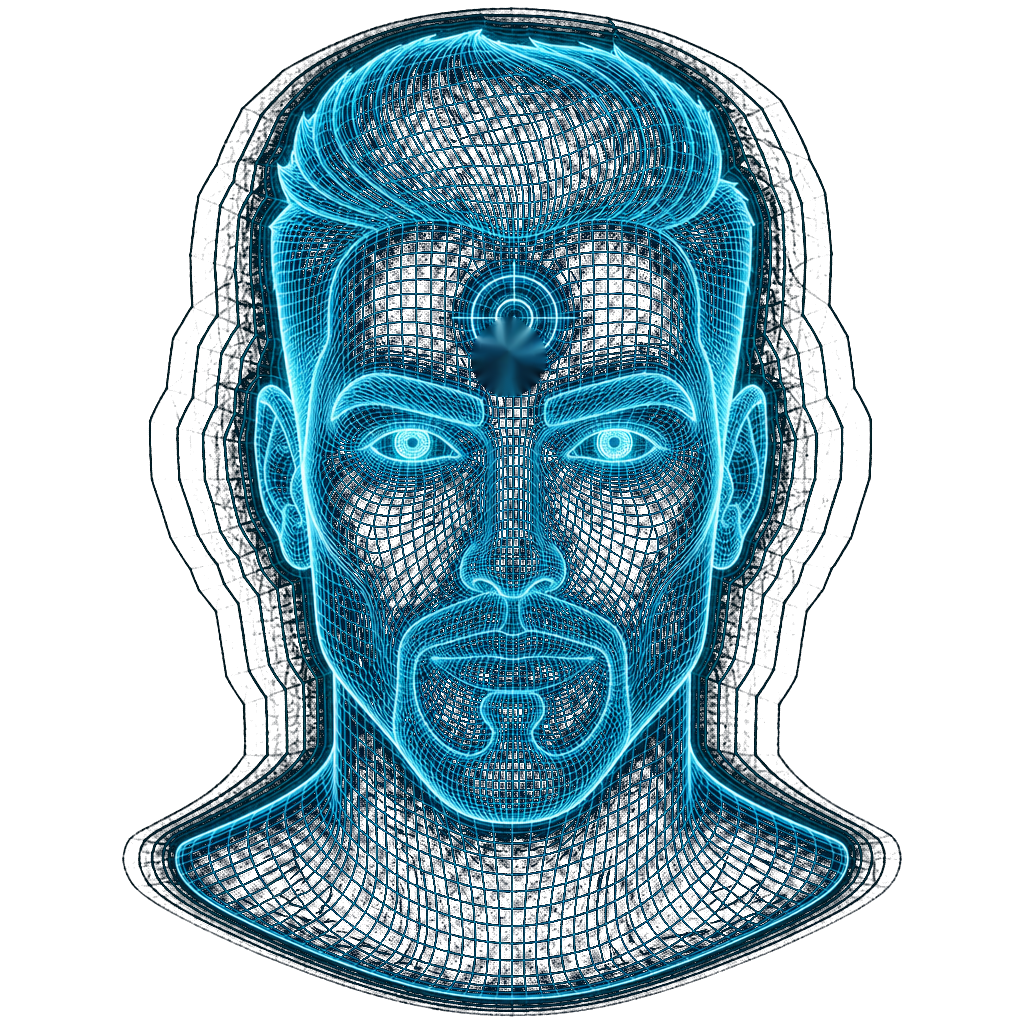
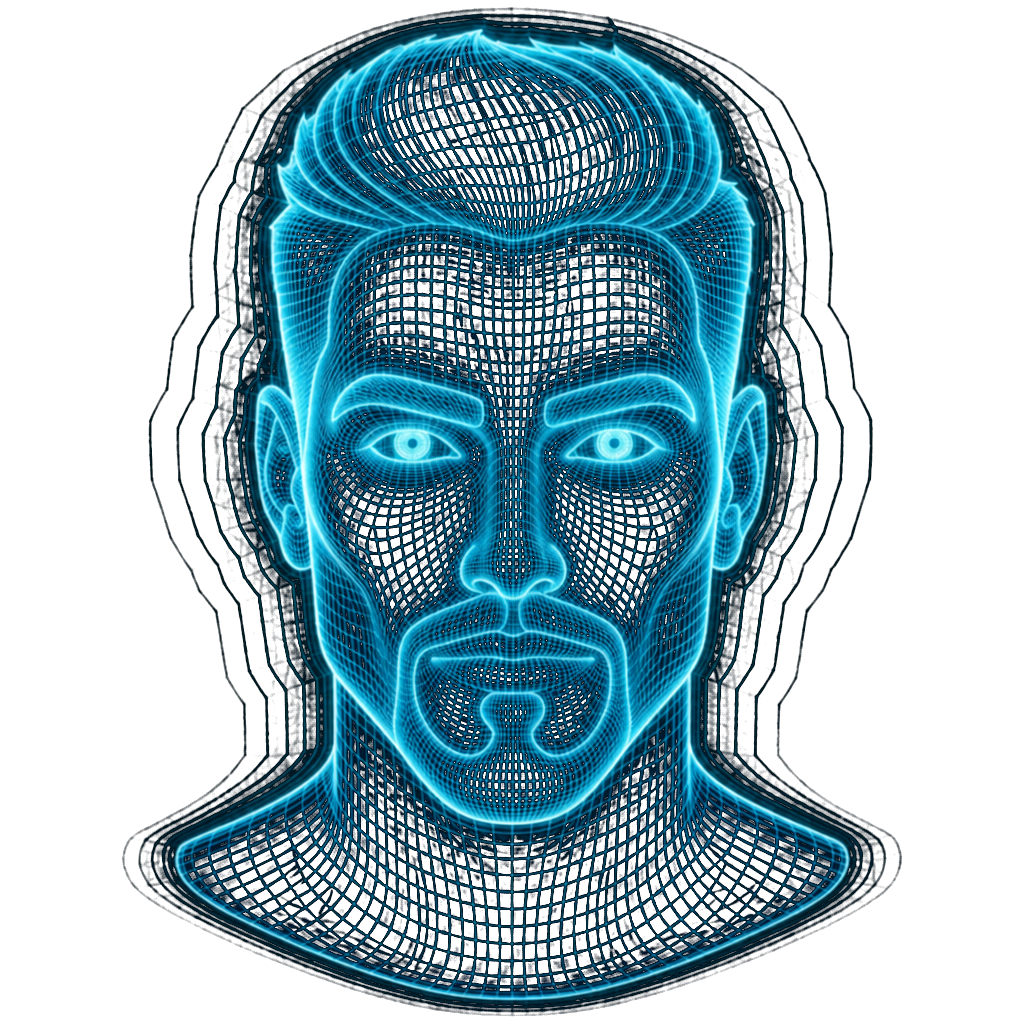
Remove the forehead reticle from the holographic face mesh.

diff --git a/apps/web/src/components/voice/CedHoloPresence.tsx b/apps/web/src/components/voice/CedHoloPresence.tsx
@@ -27,7 +27,7 @@ type Stamp = { nx: number; ny: number; r: number };
 
 type Pt = { x: number; y: number };
 
-const HOLO_SRC = "/voice/holo-presence.png?v=mesh4";
+const HOLO_SRC = "/voice/holo-presence.png?v=mesh5";
 const FILL_MS = 2400;
 
 function spawnSpark(
